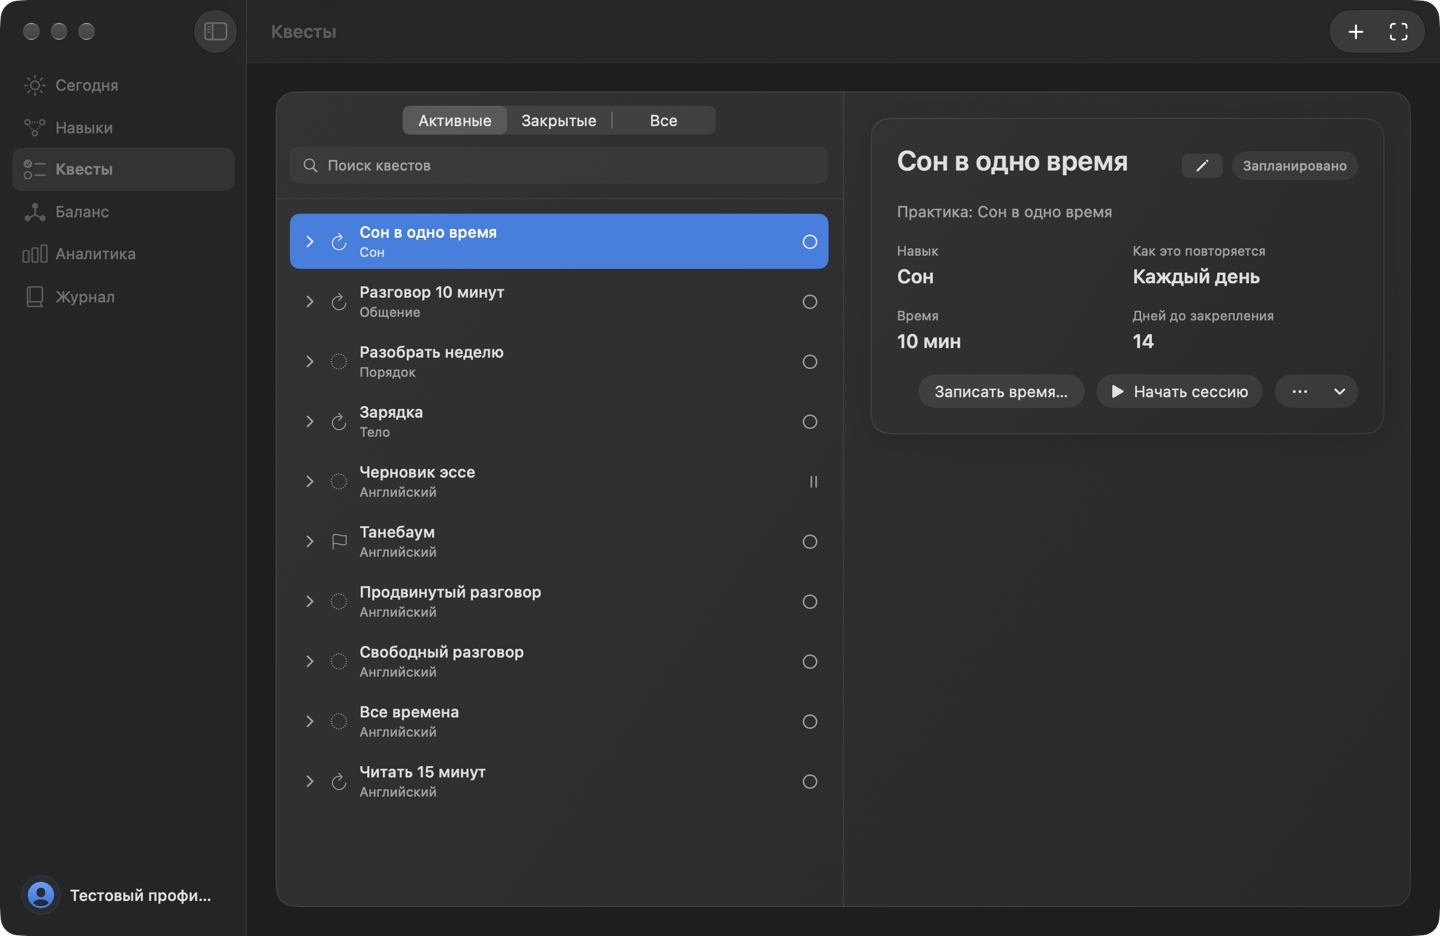
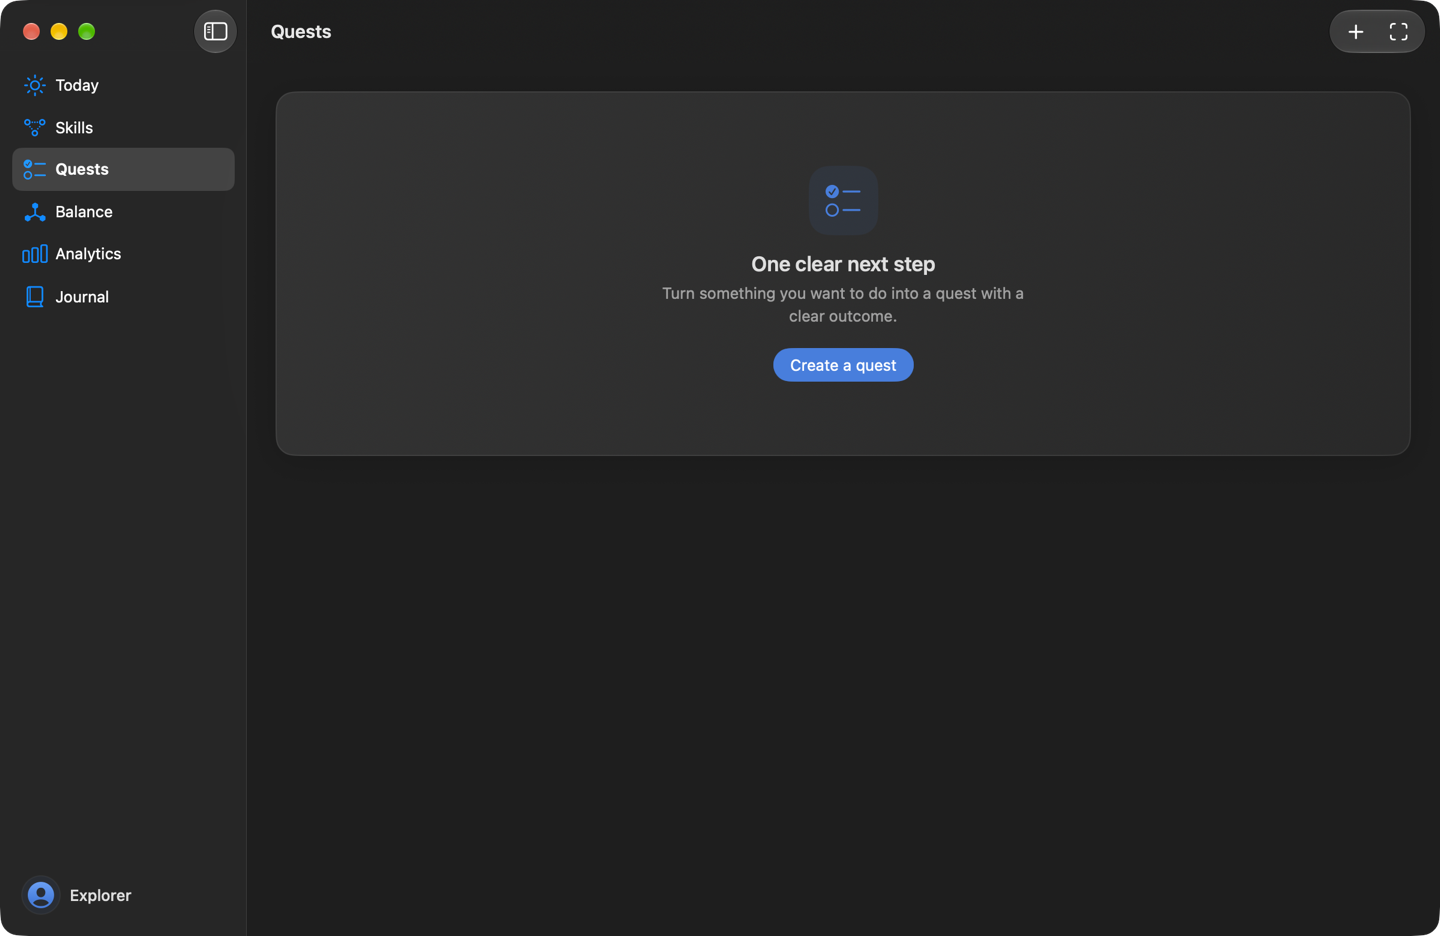
Write the README in English and show an empty profile.

diff --git a/README.md b/README.md
@@ -1,72 +1,72 @@
-<h1><img src="docs/logo.png" alt="" width="56"> ASCEND</h1>
+<h1><img src="docs/logo.png" alt="" width="32" height="32" align="absmiddle"> ASCEND</h1>
 
-Локальная система развития для macOS. Квесты, привычки, сессии и навыки хранятся на этом компьютере. Аккаунт, сервер и подписка не нужны.
+A local personal-development app for macOS. Quests, habits, sessions, and skills stay on this computer. No account, server, or subscription.
 
-Интерфейс на русском и английском. Сборка для Apple Silicon, macOS 13 и новее.
+The interface is in English and Russian. The build is for Apple Silicon and macOS 13 or later.
 
-## Что делает
+## What it does
 
-**Сегодня** собирает день в одном месте. Сначала идут привычки на каждый день, затем задачи «пока не закончено», затем один шаг длинного проекта. Рядом — ежедневная рутина: список составляется заранее, отметки живут только этот день.
+**Today** puts the day in one place. Habits come first, then work that continues until it is done, then the next step of a longer project. The daily routine sits beside that: the list is set in advance, and the checks last only for today.
 
-**Навыки** связаны зависимостями и копят опыт. У навыка есть свои квесты. Сессия идёт по таймеру и записывается в историю; после выхода или сбоя она возвращается на паузе, время вне приложения не начисляется.
+**Skills** are linked by prerequisites and collect experience. Each skill has its own quests. A session runs on a timer and is written into the history. After you quit or the app stops, the session comes back paused. Time spent outside the app is not counted.
 
-**Квесты** бывают трёх видов: «Каждый день», «Пока не закончено» и «Один шаг». У задачи есть план сессий, срок и результат.
+**Quests** are one of three kinds: every day, until it is done, or one step. A quest can have a session plan, a deadline, and a result.
 
-**Персонаж** показывает уровень, опыт и шесть характеристик. Седьмая, дисциплина, стоит числом рядом с ними. Этапы открываются отдельной кнопкой.
+**Character** shows level, experience, and six attributes. Discipline, the seventh, is a number beside them. Milestones open from their own button.
 
-Данные лежат в `~/Library/Application Support/ASCEND/`. База — SQLite. Резервные копии, JSON и CSV есть в настройках. Импорт сначала показывает, что внутри файла, и перед заменой сохраняет текущую базу. Сеть не используется.
+Data lives in `~/Library/Application Support/ASCEND/`. The database is SQLite. Backups, JSON, and CSV are in Settings. Import shows what a file contains, and the current database is copied before it is replaced. The app does not use the network.
 
-## Снимки
+## Screenshots
 
-Сегодня: практика дня и рутина.
+A new profile, before any skills or quests.
 
-<img src="docs/screenshots/today.png" width="880" alt="Экран Сегодня: практика и ежедневная рутина">
+Today.
 
-Навыки: опыт, зависимости и подтверждённый результат.
+<img src="docs/screenshots/today.png" width="880" alt="Today, with nothing to practice yet">
 
-<img src="docs/screenshots/skills.png" width="880" alt="Экран Навыки: список навыков и карточка Основы">
+Skills.
 
-Квесты: список, срок и запуск сессии.
+<img src="docs/screenshots/skills.png" width="880" alt="Skills, before any skill has been added">
 
-<img src="docs/screenshots/quests.png" width="880" alt="Экран Квесты: список и карточка выбранного квеста">
+Quests.
 
-На снимках тестовый профиль. Свой профиль при первом запуске пустой.
+<img src="docs/screenshots/quests.png" width="880" alt="Quests, before any quest has been added">
 
-## Запуск
+## Run
 
-Готовая сборка: [ASCEND 0.6.0 для Apple Silicon](https://github.com/rixct/ascend/releases/tag/v0.6.0). Файл подписан локально, поэтому при первом открытии macOS попросит подтвердить запуск.
+Download [ASCEND 0.6.0 for Apple Silicon](https://github.com/rixct/ascend/releases/tag/v0.6.0). The app is signed locally, so macOS asks you to confirm the first launch.
 
-Сборка из исходников:
+Build from source:
 
 ```sh
 ./scripts/build-app.sh
 open dist/ASCEND.app
 ```
 
-Нужны Xcode Command Line Tools и Rust stable. Если Cargo ещё нет, `scripts/setup.sh` ставит его в `.toolchain/`. Каталоги `target/`, `dist/` и `.toolchain/` остаются на машине.
+You need the Xcode Command Line Tools and Rust stable. If Cargo is not installed, `scripts/setup.sh` puts it in `.toolchain/`. The `target/`, `dist/`, and `.toolchain/` directories stay on your machine.
 
-Отдельная база, чтобы не открывать свой профиль:
+Open a separate database instead of your own profile:
 
 ```sh
 open -n dist/ASCEND.app --args --data-dir /absolute/path/to/test-profile
 ```
 
-## Устройство
+## Layout
 
-| Путь | Назначение |
+| Path | Role |
 | --- | --- |
-| `native/Sources/` | SwiftUI и AppKit: окна, экраны, настройки |
-| `native/Resources/` | Русские и английские строки |
-| `crates/ascend-core/` | Опыт, уровни, дисциплина, баланс |
-| `crates/ascend-storage/` | SQLite, копии, JSON и CSV |
-| `crates/ascend-planner/` | План дня и рекомендации |
-| `crates/ascend-bridge/` | Локальный процесс, с которым говорит интерфейс |
+| `native/Sources/` | SwiftUI and AppKit: windows, screens, settings |
+| `native/Resources/` | English and Russian strings |
+| `crates/ascend-core/` | Experience, levels, discipline, balance |
+| `crates/ascend-storage/` | SQLite, backups, JSON and CSV |
+| `crates/ascend-planner/` | The daily plan and recommendations |
+| `crates/ascend-bridge/` | The local process the interface talks to |
 
-Интерфейс не считает опыт сам. Все команды идут в `ascend-engine` через stdin/stdout и проходят одну и ту же проверку.
+The interface does not calculate experience itself. Every command goes to `ascend-engine` through stdin/stdout and through the same checks.
 
-Подробнее: [рутина](docs/ROUTINE.md), [сессии](docs/SESSIONS.md), [дерево навыков](docs/SKILL_TREE.md), [дерево квестов](docs/QUEST_TREES.md), [строгий режим](docs/STRICT_MODE.md), [уведомления](docs/NOTIFICATIONS.md).
+More detail: [routine](docs/ROUTINE.md), [sessions](docs/SESSIONS.md), [skill tree](docs/SKILL_TREE.md), [quest trees](docs/QUEST_TREES.md), [strict mode](docs/STRICT_MODE.md), [notifications](docs/NOTIFICATIONS.md).
 
-Проверки:
+Checks:
 
 ```sh
 ./scripts/cargo.sh test --workspace --locked
@@ -74,6 +74,6 @@ open -n dist/ASCEND.app --args --data-dir /absolute/path/to/test-profile
 ./scripts/cargo.sh fmt --all --check
 ```
 
-106 тестов Rust покрывают формулы, повторные начисления, привычки, зависимости и SQLite. Те же проверки запускает GitHub Actions.
+106 Rust tests cover the formulas, repeated awards, habits, prerequisites, and SQLite. GitHub Actions runs the same checks.
 
-Лицензия — [MIT](LICENSE).
+License: [MIT](LICENSE).
